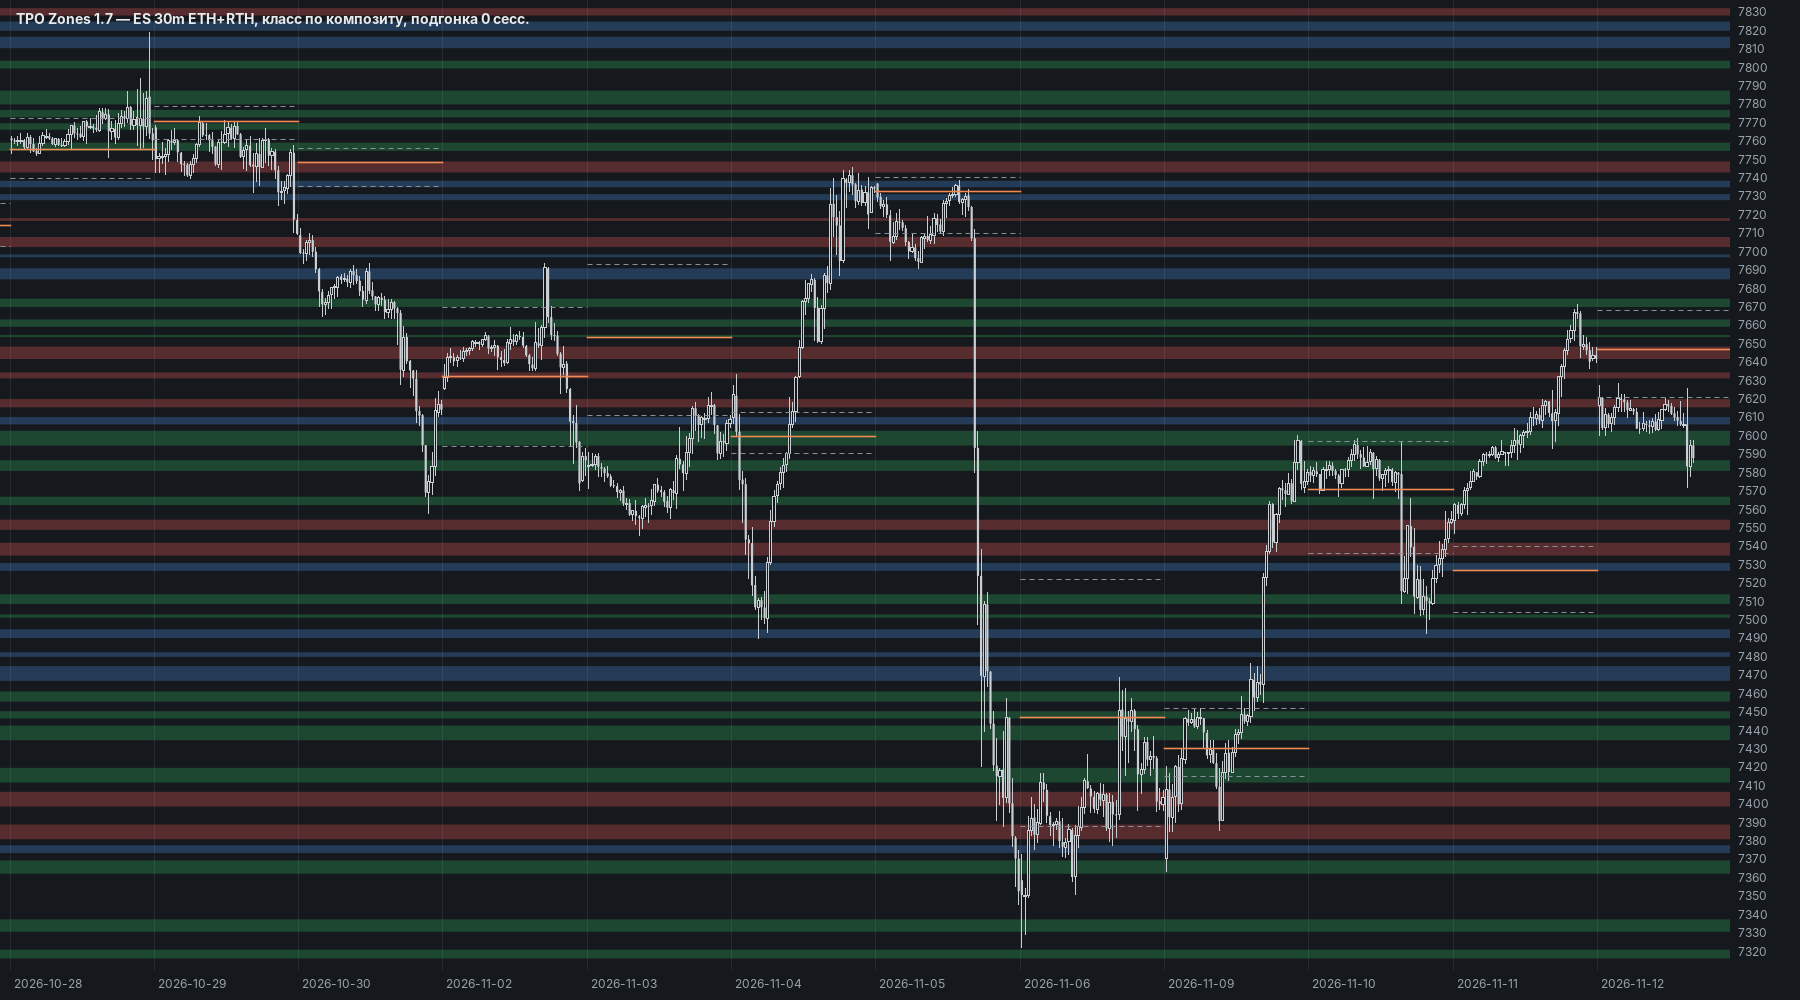
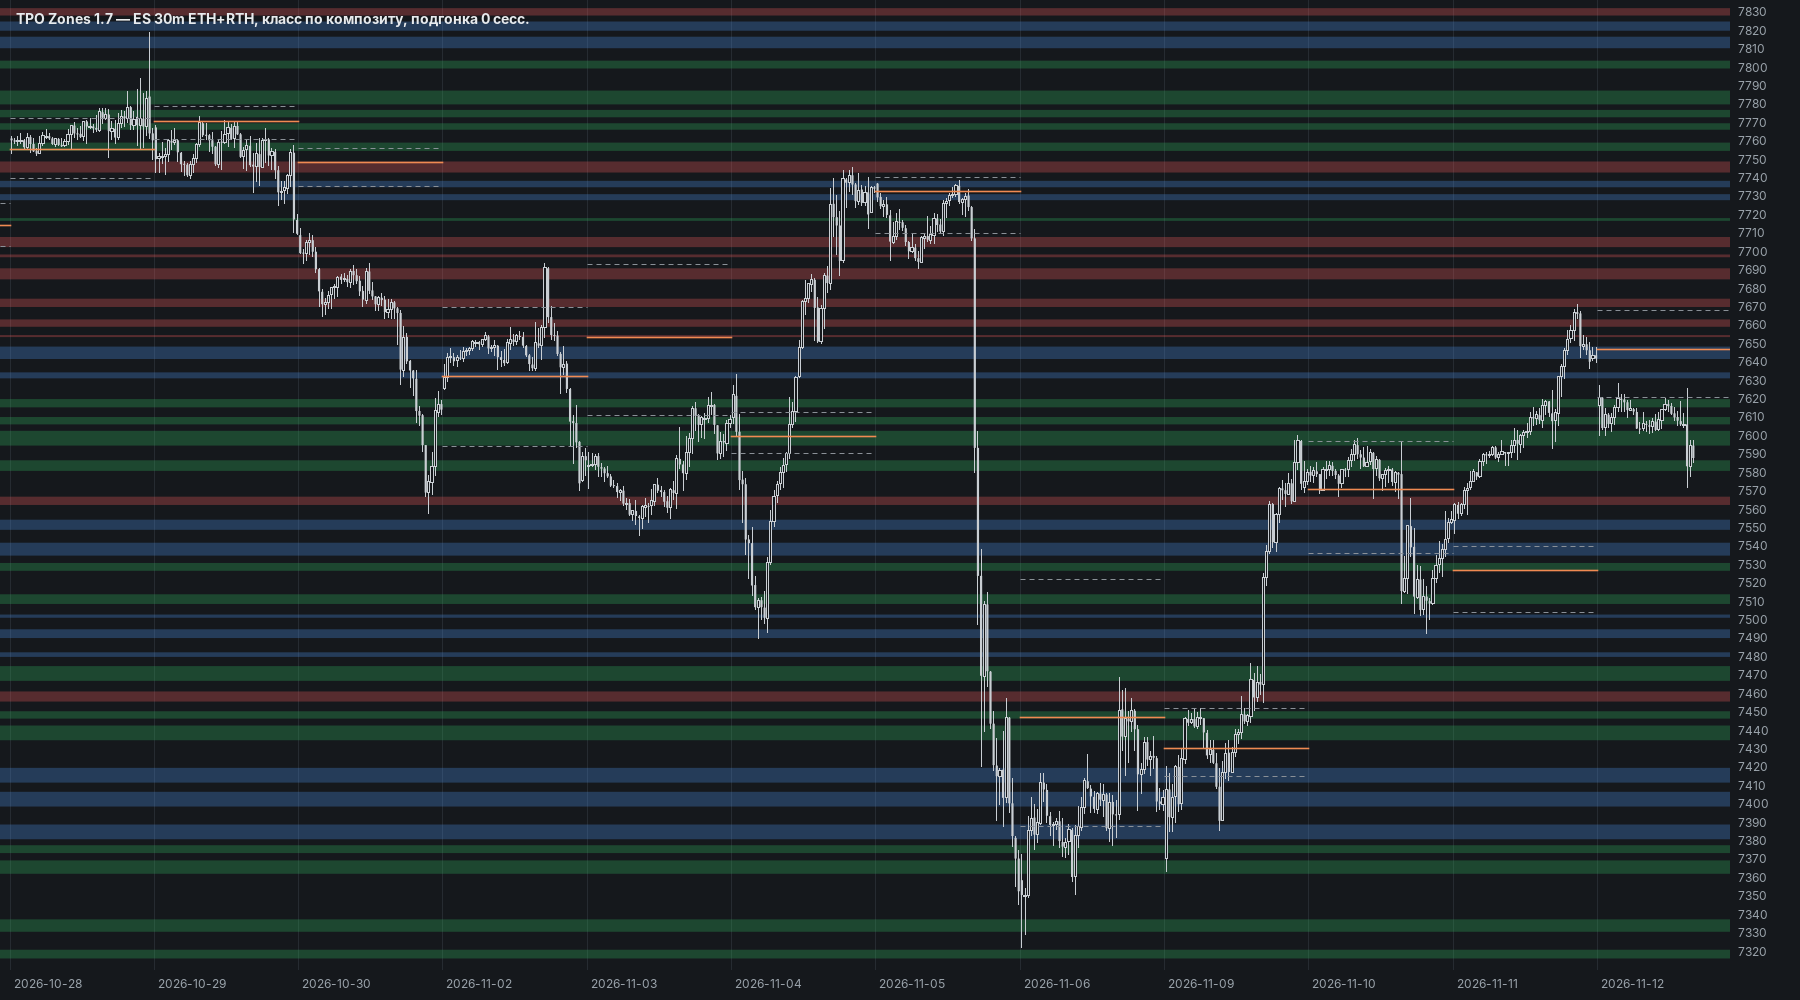
Composites: a day joins only on close in range AND VA overlap
A day used to join the composite when its close was inside the range OR
its VA overlapped the composite VA. A trend day's tail let a breakout day
that closed just inside the old range glue a new balance onto the old one
(05.06-12.06: 09.06 closed 13 pts above the 05.06 low with no VA contact,
one 306-pt composite). Now both conditions are required, also for the
false-break continuation; 09.06-11.06 becomes its own composite. Setting
"close in range AND VA overlap" (on by default) restores the OR rule.

Not-balance composites 51 -> 5, colour match with manual zones 23% -> 26%,
zones unchanged. dist/TpoZones-1.7.jar is not rebuilt (no MotiveWave SDK
here).

Claude-Session: https://claude.ai/code/session_01PTkojwxsX3jzc4BttC3Khg

diff --git a/motivewave/src/patterns/zones/ZoneEngine.java b/motivewave/src/patterns/zones/ZoneEngine.java
@@ -87,8 +87,9 @@ public final class ZoneEngine {
         public int compFalseBreakMax = 2;         // ... и не больше стольких продолжений подряд
         public boolean compFalseBreak = true;     // ложный выход: возврат close в диапазон закрытого композита, пока новый
                                                   // не набрал compositeMinDays дней, — дни доклеиваются к нему
-        public double compVaOverlap = 0.5;        // день входит в композит и при close вне диапазона, если VA дня и VA композита
-                                                  // пересекаются на ≥ эту долю меньшей из двух (0 — только close внутри диапазона)
+        public double compVaOverlap = 0.5;        // VA дня и VA композита пересекаются на ≥ эту долю меньшей из двух (0 — не проверять)
+        public boolean compJoinBoth = true;       // склейка: close в диапазоне И пересечение VA (иначе — close в диапазоне ИЛИ пересечение VA);
+                                                  // так же и доклейка после ложного выхода
         public boolean sessionZones = true;       // зоны из узлов RTH TPO каждой сессии, подогнанные по телам / теням свечей;
                                                   // композит только задаёт роль (ядро / выше / ниже) и один раз перекрашивает
         public double sessNodeDrop = 1.0;         // узел — строки не ниже вершины на столько TPO (сглаж. 1 п.)
@@ -371,6 +372,7 @@ public final class ZoneEngine {
                 int c = ticks(d.close, tick);
                 if (cand.size() >= p.compositeMinDays) lastCand = null;
                 if (p.compositeMode && p.compFalseBreak && lastCand != null && c >= lastCp.low && c <= lastCp.high()
+                        && (!p.compJoinBoth || vaJoins(d, lastCp, p))
                         && (lastCp.high() - lastCp.low) * tick <= p.compFalseBreakMaxPts && extCount < p.compFalseBreakMax) {
                     // ложный выход: композит закрылся, новый ещё не набрал дней, а цена закрылась обратно в его
                     // диапазоне — дни после выхода доклеиваются к нему, композит продолжается
@@ -382,12 +384,8 @@ public final class ZoneEngine {
                     continue;
                 }
                 boolean join = c >= cp.low && c <= cp.high();
-                if (!join && p.compositeMode && p.compVaOverlap > 0) {       // или VA дня внутри VA композита ≥ доли
-                    int[] cva = valueArea(cp, p.valueAreaPct);
-                    int inter = Math.min(d.vah, cva[2]) - Math.max(d.val, cva[1]) + 1;
-                    int narrow = Math.min(d.vah - d.val, cva[2] - cva[1]) + 1;        // доля от меньшей из двух VA
-                    join = inter > 0 && inter / (double) narrow >= p.compVaOverlap;
-                }
+                if (p.compositeMode && p.compJoinBoth) join = join && vaJoins(d, cp, p);     // close в диапазоне И наслоение VA
+                else if (!join && p.compositeMode && p.compVaOverlap > 0) join = vaJoins(d, cp, p);   // ... ИЛИ
                 if (join) { cand.add(d); cp = merge(cp, d.profile); continue; }
                 Comp made = closeComposite(cand, cp, d.date, p, ob, greyComp, res.comps, res.notBalance);
                 if (made != null) made.extendsOf = extOf;
@@ -730,6 +728,15 @@ public final class ZoneEngine {
     private static int rank(Kind k) { return k == Kind.CORE ? 0 : k == Kind.GREY ? 2 : 1; }
 
     // ------------------------------------------------------------------ композиты
+    /** VA дня и VA композита пересекаются на ≥ compVaOverlap меньшей из двух (compVaOverlap = 0 — проверка выключена). */
+    static boolean vaJoins(Day d, Profile cp, Params p) {
+        if (p.compVaOverlap <= 0) return true;
+        int[] cva = valueArea(cp, p.valueAreaPct);
+        int inter = Math.min(d.vah, cva[2]) - Math.max(d.val, cva[1]) + 1;
+        int narrow = Math.min(d.vah - d.val, cva[2] - cva[1]) + 1;
+        return inter > 0 && inter / (double) narrow >= p.compVaOverlap;
+    }
+
     private static Comp closeComposite(List<Day> cand, Profile cp, LocalDate endDay, Params p,
                                        List<Zone> ob, List<Zone> greyComp, List<Comp> comps, List<Comp> notBalance) {
         int n = cand.size();

diff --git a/motivewave/src/patterns/zones/TpoZonesStudy.java b/motivewave/src/patterns/zones/TpoZonesStudy.java
@@ -56,7 +56,7 @@ import patterns.zones.ZoneEngine.Result;
 public class TpoZonesStudy extends Study {
 
     // ---- ключи настроек
-    static final String FALSE_BRK = "compFalseBreak", COMP_VA = "compVaOverlap", S_GAP = "sessMinGap", S_SHARE = "sessPeakShare", SESS = "sessionZones", S_PEAK = "sessMinPeak", S_BODY = "sessBody", CLUST = "bodyClusters", CL_DIP = "clusterDip", CL_MAX = "clusterMax", SUB_ADD = "subAddsZones", FIT_ETH = "fitEth", FIT_B = "fitBody", FIT_C = "fitCluster", PMAXB = "partMaxBody", PART = "partition", BODY = "bodyShare", PCORE = "partCore", PTGT = "partTarget", NODES = "coreNodes", NODE_DIP = "nodeDip", NODE_DROP = "nodeDrop", NO_OVERLAP = "noOverlap", MIN_PIECE = "minPiece", SHORT_DAYS = "compShortDays", SUB_OV = "subOverlap", SUB_RATIO = "subRatio", CLIFF = "coreCliff", CORE_DAYS = "coreMinDays", CORE_SESS = "coreFromSessions", JOIN_GAP = "joinGap", ZONE_W = "zoneMaxW", MODE = "compositeMode", CORE_VA = "coreByVa", BAR30 = "bar30", HISTORY_DAYS = "historyDays", TZ = "tz", RTH_START = "rthStart",
+    static final String FALSE_BRK = "compFalseBreak", COMP_VA = "compVaOverlap", COMP_AND = "compJoinBoth", S_GAP = "sessMinGap", S_SHARE = "sessPeakShare", SESS = "sessionZones", S_PEAK = "sessMinPeak", S_BODY = "sessBody", CLUST = "bodyClusters", CL_DIP = "clusterDip", CL_MAX = "clusterMax", SUB_ADD = "subAddsZones", FIT_ETH = "fitEth", FIT_B = "fitBody", FIT_C = "fitCluster", PMAXB = "partMaxBody", PART = "partition", BODY = "bodyShare", PCORE = "partCore", PTGT = "partTarget", NODES = "coreNodes", NODE_DIP = "nodeDip", NODE_DROP = "nodeDrop", NO_OVERLAP = "noOverlap", MIN_PIECE = "minPiece", SHORT_DAYS = "compShortDays", SUB_OV = "subOverlap", SUB_RATIO = "subRatio", CLIFF = "coreCliff", CORE_DAYS = "coreMinDays", CORE_SESS = "coreFromSessions", JOIN_GAP = "joinGap", ZONE_W = "zoneMaxW", MODE = "compositeMode", CORE_VA = "coreByVa", BAR30 = "bar30", HISTORY_DAYS = "historyDays", TZ = "tz", RTH_START = "rthStart",
             RTH_END = "rthEnd", ETH_START = "ethStart", TICK = "tick", VA_PCT = "vaPct", HVN_SHARE = "hvnShare",
             HVN_MIN = "hvnMin", HVN_MAX = "hvnMax", GHVN_MIN = "greyHvnMin", GHVN_MAX = "greyHvnMax",
             MERGE_OV = "mergeOv", MERGE_W = "mergeW", COMP_DAYS = "compDays", GREY_HIST = "greyHist",
@@ -113,7 +113,8 @@ public class TpoZonesStudy extends Study {
         g.addRow(new DoubleDescriptor(NODE_DROP, "Узлы: строки не ниже вершины узла на, TPO", 2.0, 0.5, 20, 0.5));
         g.addRow(new BooleanDescriptor(NO_OVERLAP, "Зоны не налезают друг на друга (младшие обрезаются)", true));
         g.addRow(new DoubleDescriptor(MIN_PIECE, "Обрезанная зона уже, п. — не рисуется", 1.0, 0.25, 10, 0.25));
-        g.addRow(new DoubleDescriptor(COMP_VA, "Композит: день входит и при close вне диапазона, если VA дня и композита пересекаются на ≥ долю меньшей (0 — выкл.)", 0.5, 0, 1, 0.05));
+        g.addRow(new DoubleDescriptor(COMP_VA, "Композит: наслоение VA — VA дня и композита пересекаются на ≥ долю меньшей (0 — не проверять)", 0.5, 0, 1, 0.05));
+        g.addRow(new BooleanDescriptor(COMP_AND, "Композит: день входит, только если close в диапазоне И наслоение VA (выкл. — ИЛИ)", true));
         g.addRow(new BooleanDescriptor(FALSE_BRK, "Композит: ложный выход — возврат close в диапазон закрытого композита (до 3 дней) доклеивает дни к нему", true));
         g.addRow(new BooleanDescriptor(SHORT_DAYS, "Короткие дни (ранние закрытия) входят в композиты", true));
         g.addRow(new DoubleDescriptor(SUB_OV, "Уточнение: ≥ доли диапазона композита внутри раннего баланса — его ядро серое (0 — выкл.)", 0.70, 0, 1, 0.05));
@@ -272,6 +273,7 @@ public class TpoZonesStudy extends Study {
         p.subOverlap = st.getDouble(SUB_OV, 0.70);
         p.compositeShortDays = st.getBoolean(SHORT_DAYS, true);
         p.compVaOverlap = st.getDouble(COMP_VA, 0.5);
+        p.compJoinBoth = st.getBoolean(COMP_AND, true);
         p.compFalseBreak = st.getBoolean(FALSE_BRK, true);
         p.coreNodes = st.getBoolean(NODES, true);
         p.partition = st.getBoolean(PART, true);

diff --git a/motivewave/README.md b/motivewave/README.md
@@ -21,8 +21,9 @@
 - **1.7** (ветка `zones-1.7`) — сессионные зоны по умолчанию: узлы RTH TPO каждой сессии (вершина ≥ 50%
   главного узла дня), подогнанные по телам свечей сессии ETH + RTH, 1–8 п.; первая зона на уровне главная —
   узел ближе 3 п. к существующей зоне её подтверждает, младшая налезающая зона не рисуется, между зонами
-  всегда пустота; композит задаёт роль и один раз перекрашивает. Композит: склейка и по пересечению VA
-  (≥ 50% меньшей), ложный выход доклеивает дни к закрытому композиту. Исправлено ядро в нуле (зоны вне тела
+  всегда пустота; композит задаёт роль и один раз перекрашивает. Композит: день входит, только если close
+  в диапазоне **и** VA дня и композита пересекаются (≥ 50% меньшей), ложный выход доклеивает дни к закрытому
+  композиту. Исправлено ядро в нуле (зоны вне тела
   композита краснели). Замер против ручной разметки (`parity/Bench.java`) и сравнение картинкой
   (`Preview -Dmanual=…`).
 - **1.6** (ветка `zones-1.6`) — разметка композита как ручная расстановка: тело композита режется на
@@ -190,14 +191,23 @@ java -cp <classes> Bench bars.csv output/manual_zones_bench.csv compositeMode=tr
 после его закрытия. За 3 сессии от начала ручной находится 21%, за 10 — 41%, за 30 — 50%, за 60 — 56%.
 
 **Как складывается композит** (режим «по композиту»): RTH-дни по порядку (короткие тоже), профиль
-кандидата — сумма TPO его дней. День входит, если его close внутри High–Low кандидата **или** VA дня и VA
-кандидата пересекаются на ≥ 50% меньшей из двух. Иначе кандидат закрывается, день открывает новый.
-**Ложный выход:** если новый кандидат ещё не набрал 3 дней, а день закрылся обратно в диапазоне только что
-закрытого композита (не шире 100 п.), дни после выхода доклеиваются к нему (не больше 2 раз подряд).
-Кандидат ≥ 3 дней — композит (затем фильтры: баланс по VA дней, уточнение внутри раннего баланса, тело
-≤ 100 п.). Пример — 29.05–04.06 (ESZ6): 01.06 закрылся на 1.75 п. выше диапазона, 03.06 — на 4.5 п. ниже,
-и раньше ренж рассыпался на куски по 1–2 дня (композита не было, все зоны стали сопротивлением от
-ядра 05.06–12.06 на 150 п. ниже); теперь — один композит 29.05–04.06 с ядром 7581.50–7605.25.
+кандидата — сумма TPO его дней. День входит, только если выполнены **оба** условия: его close внутри
+High–Low кандидата **и** VA дня и VA кандидата пересекаются на ≥ 50% меньшей из двух (наслоение VA).
+Иначе кандидат закрывается, день открывает новый. **Ложный выход:** если новый кандидат ещё не набрал
+3 дней, а день закрылся обратно в диапазоне только что закрытого композита (не шире 100 п.) и его VA
+наслаивается на VA композита, дни после выхода доклеиваются к нему (не больше 2 раз подряд). Кандидат
+≥ 3 дней — композит (затем фильтры: баланс по VA дней, уточнение внутри раннего баланса, тело ≤ 100 п.).
+Галочка «close в диапазоне И наслоение VA» снята — старое правило 1.7: close в диапазоне **или** наслоение VA.
+
+Пример — 05.06–12.06 (цены ESZ6 на графике): 05.06 — трендовый день 7553 → 7379.75, 08.06 — баланс
+внутри него. 09.06 провалился до 7247.25, но закрылся на 7392.75 — на 13 п. выше лоя 05.06, т.е. в
+диапазоне; VA 09.06 (7287.50–7402) с VA кандидата (7406.50–7476.50) не пересекается. По «или» 09.06–12.06
+приклеивались к 05.06–08.06 в один композит на 306 п. с ядром у 7429–7439. По «и» 09.06 открывает новый
+кандидат: 10.06 (VA внутри VA 09.06) и 11.06 (наслоение 53%) входят, 12.06 (close в диапазоне, VA выше VA
+кандидата) — выход. Композит 09.06–11.06, диапазон 7247.25–7491, сложился 12.06.
+Цена правила — ренж 29.05–04.06 снова не композит: 01.06 закрылся на 1.75 п. выше диапазона, а VA 02.06 над
+VA кандидата. По всей истории: балансов 88 → 87, композитов-не-балансов (дни не сходятся в ядре) 51 → 5,
+медиана диапазона 99.5 → 80.5 п.; зоны те же, цвет совпадает с ручной разметкой в 26% вместо 23%.
 
 **Сессионные зоны** (по умолчанию, галочка «Зоны из сессий»): зоны из узлов RTH TPO каждой сессии
 (вершина ≥ 3 TPO, провалы ≥ 15% меньшей вершины), подогнанные по телам свечей сессии ETH + RTH (скопление
